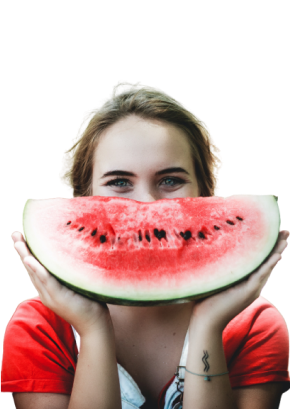
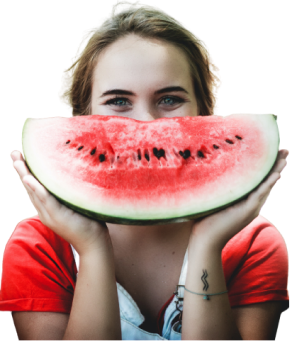
added woman watermelon img

diff --git a/app/components/sections/Home.tsx b/app/components/sections/Home.tsx
@@ -1,5 +1,5 @@
 import Button from "../form/Button";
-import ImgWatermelon from "../../../public/images/woman_watermelon_bg_white.png";
+import ImgWatermelon from "../../../public/images/woman_watermelon.png";
 import Section from "./Section";
 
 const style = {
@@ -21,18 +21,29 @@ type THomeProps = {};
 
 const Home: React.FC<THomeProps> = () => {
   return (
-    <Section id="home" className="py-10 lg:pt-24">
-      <div className="flex flex-col items-center pb-20 md:text-center">
-        <h1 className="title pb-8 pt-6 text-3xl font-bold sm:text-6xl ">
+    <Section id="home" className="relative py-10 lg:mx-0 lg:pt-24 xl:mx-20">
+      <div
+        className="relative z-[2] pb-20"
+        style={{
+          textShadow: "0px 0px 3px rgba(255,255,255,0.7)",
+        }}
+      >
+        <h1 className="title pb-8 pt-6 text-left text-3xl font-bold sm:text-6xl md:text-center">
           ¿Quieres empezar
           <br /> a cuidar de tu <span className="mainColor">salud</span>?
         </h1>
-        <p className="pb-10 pb-8 text-xl">
+        <div className="insetShadow relative z-[1] float-right block max-w-[50%] translate-x-1/3 lg:hidden">
+          <img src={ImgWatermelon} alt="watermelon" />
+        </div>
+        <p className="pb-10 pb-8 text-left text-xl lg:text-center">
           Puedo ayudarte a mejorar tu salud y a sentirte mejor
           <br className="hidden md:inline" /> gracias al cambio de hábitos en tu
           alimentación
         </p>
-        <Button className={"fontSemiBold w-full sm:w-fit"} style={style.button}>
+        <Button
+          className={"fontSemiBold mx-auto w-full sm:w-fit"}
+          style={style.button}
+        >
           Pide Cita
         </Button>
         {/**
@@ -40,11 +51,9 @@ const Home: React.FC<THomeProps> = () => {
          */
         /* <img src={ImgFruits} alt="fruits" style={style.leftImage} /> */}
       </div>
-      {/* <img
-        className="absolute right-0 bottom-0"
-        src={ImgWatermelon}
-        alt="watermelon"
-      /> */}
+      <div className="insetShadow absolute right-0 bottom-0 z-[1] hidden lg:block">
+        <img src={ImgWatermelon} alt="watermelon" />
+      </div>
     </Section>
   );
 };

diff --git a/app/styles/theme.css b/app/styles/theme.css
@@ -148,6 +148,17 @@ body{
     width: 100%;
 }
 
+.insetShadow::after
+{
+ box-shadow: inset 0px -100px 60px 0 white;
+ content: '';
+ display: block;
+ height: 100%;
+ position: absolute;
+ top: 0;
+ width: 100%;
+}
+
 .noFocus{
     -webkit-tap-highlight-color: transparent;
     -webkit-touch-callout: none;
